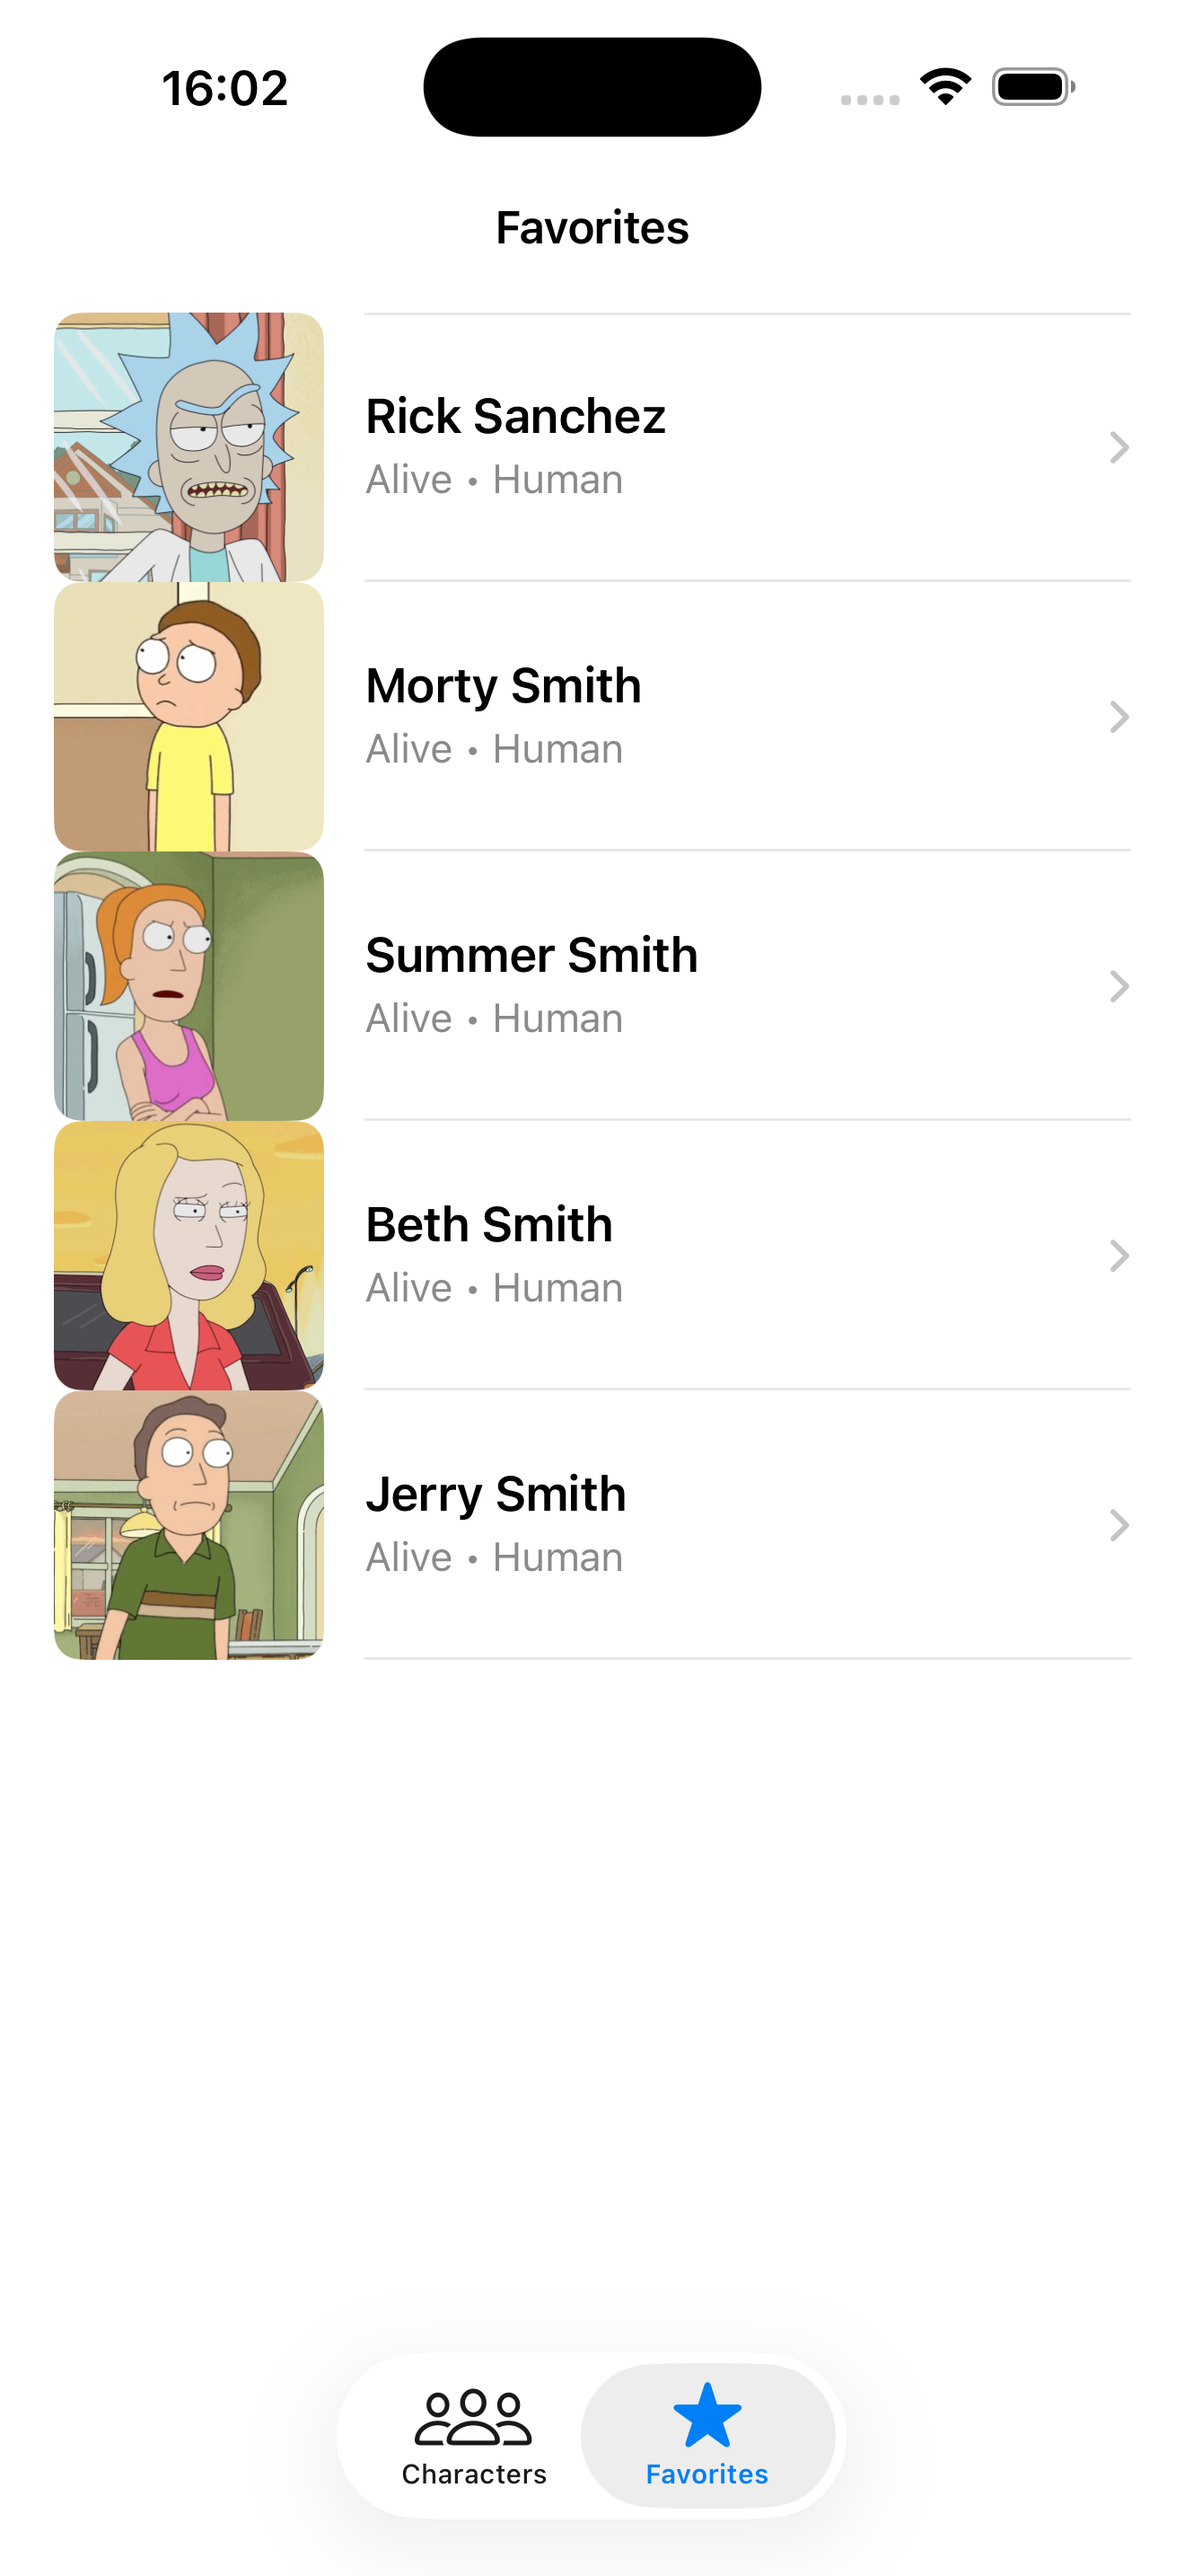
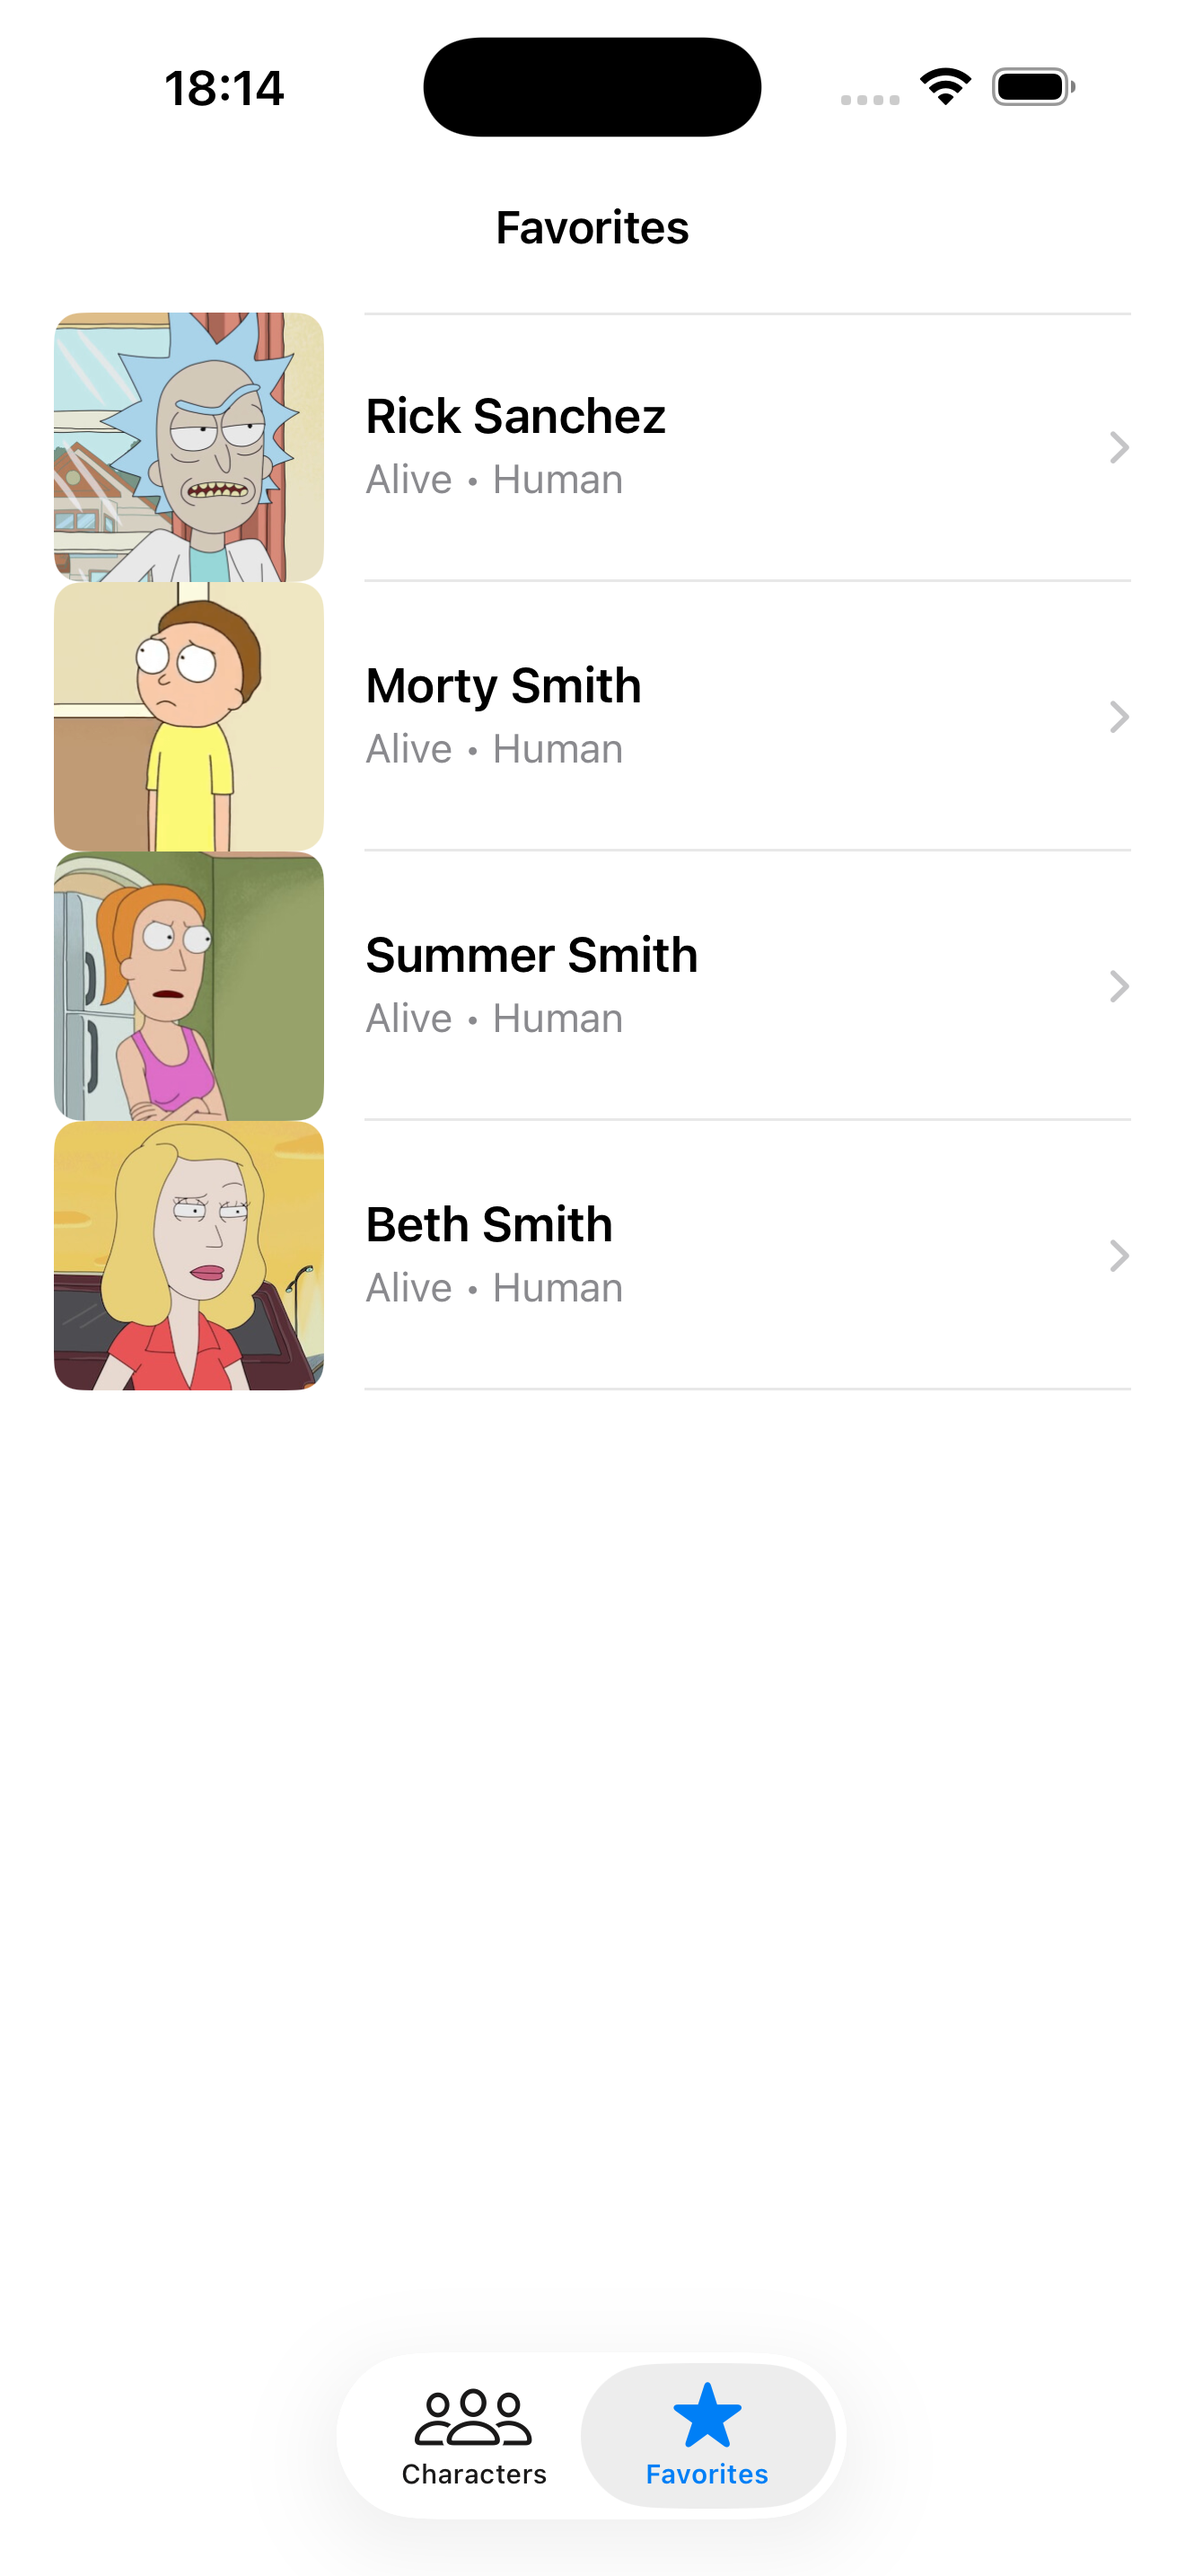
docs: update README with final screenshots and feature showcase

Changed region(s): [[0.0311, 0.5275, 0.2795, 0.6517], [0.3106, 0.5586, 0.528, 0.6206], [0.1553, 0.031, 0.2485, 0.0621]]

diff --git a/README.md b/README.md
@@ -19,14 +19,19 @@ This project was developed as part of a technical iOS challenge focused on:
 - Infinite scroll pagination
 - Search characters by name
 - Dark mode support
+- Dynamic favorites system
 
 ## Character Detail
 - Detail screen built with SwiftUI
 - UIKit → SwiftUI navigation using UIHostingController
+- Extended character information
+- Responsive UI for light and dark mode
 
 ## Favorites
 - Save favorite characters
-- Remove favorites
+- Remove favorites directly from:
+  - Characters screen
+  - Favorites screen using swipe-to-delete
 - Core Data persistence
 - Favorites available offline
 
@@ -85,42 +90,46 @@ view/
 ## Characters
 
 | Light Mode | Dark Mode |
-
 |---|---|
-
-| <img src="screenshots/characters.png" width="250"> | <img src="screenshots/charactersdark.png" width="250"> |
+| <img src="screenshots/caracters.png" width="250"> | <img src="screenshots/darkmodecharacters.png" width="250"> |
 
 ---
 
 ## Character Detail
 
 | Light Mode | Dark Mode |
-
 |---|---|
-
-| <img src="screenshots/detail.png" width="250"> | <img src="screenshots/detaildark.png" width="250"> |
+| <img src="screenshots/details.png" width="250"> | <img src="screenshots/darkmodedetails.png" width="250"> |
 
 ---
 
 ## Favorites
 
 | Light Mode | Dark Mode |
-
 |---|---|
-
-| <img src="screenshots/favorites.png" width="250"> | <img src="screenshots/favoritesdark.png" width="250"> |
+| <img src="screenshots/favorites.png" width="250"> | <img src="screenshots/darkmodefavorites.png" width="250"> |
 
 ---
 
 ## Search Characters
 
-<img src="screenshots/search characters.png" width="250">
+<img src="screenshots/serch.png" width="250">
+
+---
+
+## Remove Favorites
+
+### Swipe To Delete
+
+| Before Delete | Delete Action |
+|---|---|
+| <img src="screenshots/deletefav2.png" width="250"> | <img src="screenshots/deletefav1.png" width="250"> |
 
 ---
 
 ## Offline Alert
 
-<img src="screenshots/no internet alerta.png" width="250">
+<img src="screenshots/no internet.png" width="250">
 
 ---
 
